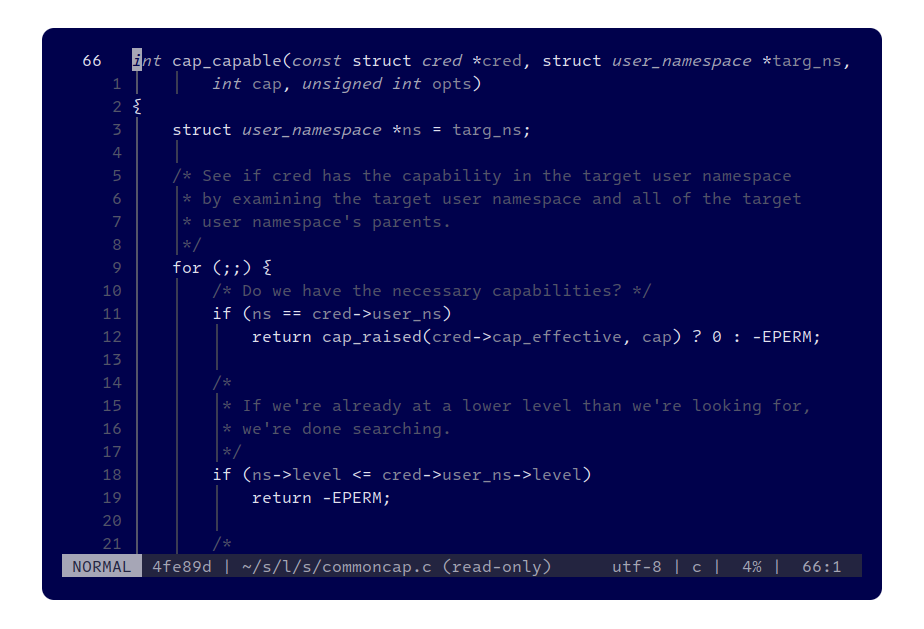
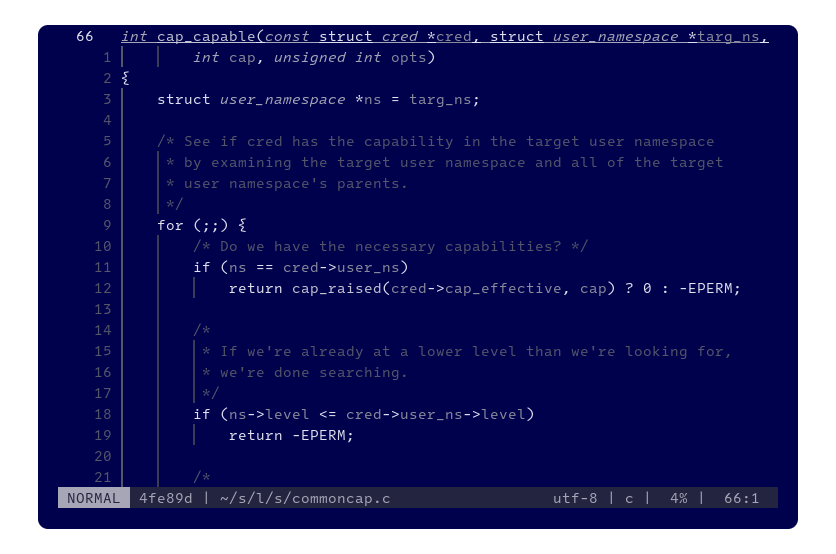
update documentation and preview

Changed region(s): [[0.0622, 0.0614, 0.933, 0.9206], [0.8086, 0.8899, 0.933, 0.9206], [0.6531, 0.8899, 0.7775, 0.9206]]

diff --git a/README.md b/README.md
@@ -1,55 +1,56 @@
-# Blue Screen
+# Blue Screen #
 
 … is a minimal and monochromatic [Neovim] theme inspired by the notorious [blue screen of death] and dedicated to [error 0xA], `IRQL_NOT_LESS_OR_EQUAL`.
 
 ![Linux kernel source code relating to capability checks in Blue Screen colors](./docs/img/c-linux-commoncap.png)
-Example: [Lines 66–87 from linux/security/commoncap.c@v6.0][example] featuring [Intel One Mono] at 12 pt, [nvim-treesitter], [Lualine][nvim-lualine/lualine.nvim] and [Indent Blankline][lukas-reineke/indent-blankline.nvim] rendered in [GNOME Terminal] at 80 × 24
+Example: [Lines 66–87 from linux/security/commoncap.c@v6.0][example] rendered in [foot] at 80 × 24 featuring [Intel One Mono] at 10.5 pt, [nvim-treesitter], [Lualine][nvim-lualine/lualine.nvim] and [Indent Blankline][lukas-reineke/indent-blankline.nvim]
 
-## Installation
+## Requirements ##
 
-### Requirements
+- Neovim 0.9.0 or later
+- A terminal emulator that supports 24-bit RGB color, italics and undercurls
 
-Neovim 0.9.0 or later
+## Installation ##
 
-### [Packer]
+Please follow the instructions for your favorite package manager.
 
-```lua
-use "ok-ryoko/blue-screen"
-```
+## Usage ##
 
-## Activation
-
-### Lua
+### Lua ###
 
 ```lua
 require("blue-screen").setup()
 ```
 
-### Vimscript
+### Vimscript ###
 
 ```vim
 colorscheme blue-screen
 ```
 
-## Explicitly supported plugins
+## Explicitly supported plugins ##
 
 - [hrsh7th/nvim-cmp]
 - [lewis6991/gitsigns.nvim]
 - [nvim-lualine/lualine.nvim]
 - [nvim-treesitter]
 
-## License
+## Backward compatibility of highlight groups ##
+
+Because the Neovim ecosystem is unstable and changing rapidly, [Ryoko] prefers to minimize cognitive load than to maintain backward compatibility. Thus, deprecated highlight groups will be kept for at least two months, one minor version of Neovim or one major version of stable semantically versioned plugins, whichever comes first.
+
+## License ##
 
 Blue Screen is free and open source software licensed under the [MIT license].
 
 [blue screen of death]: https://en.wikipedia.org/wiki/Blue_screen_of_death
 [error 0xA]: https://learn.microsoft.com/en-us/windows-hardware/drivers/debugger/bug-check-0xa--irql-not-less-or-equal
 [example]: https://github.com/torvalds/linux/blob/v6.0/security/commoncap.c#L66-L87
-[GNOME Terminal]: https://wiki.gnome.org/Apps/Terminal
+[foot]: https://codeberg.org/dnkl/foot
 [Intel One Mono]: https://github.com/intel/intel-one-mono
 [MIT license]: ./LICENSE.txt
 [Neovim]: https://github.com/neovim/neovim
-[Packer]: https://github.com/wbthomason/packer.nvim
+[Ryoko]: https://github.com/ok-ryoko
 
 [hrsh7th/nvim-cmp]: https://github.com/hrsh7th/nvim-cmp
 [lewis6991/gitsigns.nvim]: https://github.com/lewis6991/gitsigns.nvim
